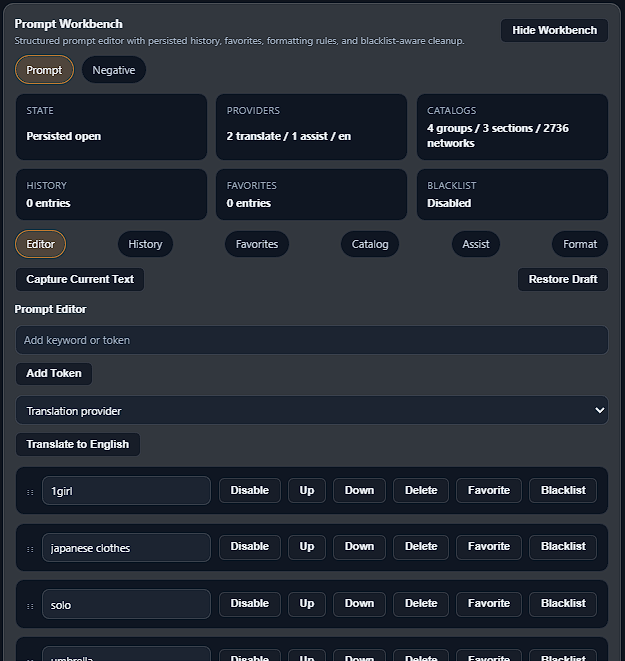
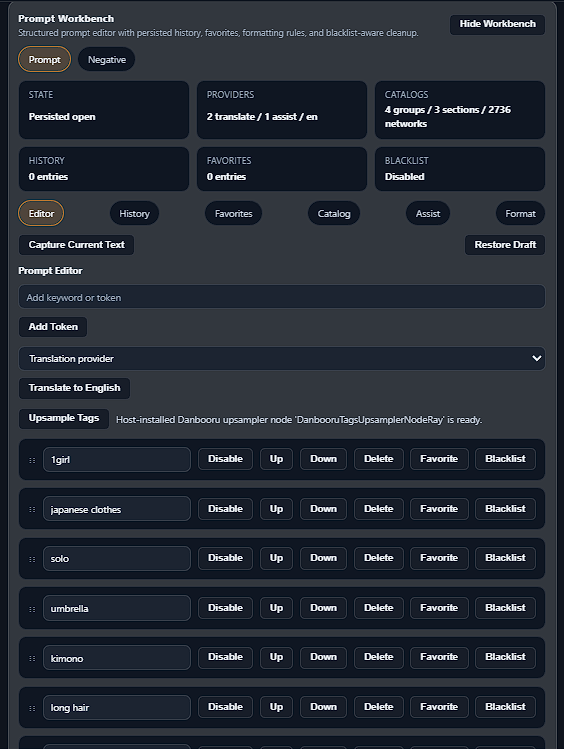
docs(readme): sync prompt workbench updates

diff --git a/README.md b/README.md
@@ -25,6 +25,17 @@ The core objective of this project is not merely to replicate the classic UI/UX,
 
 <details>
 
+<summary><strong>Prompt Workbench Danbooru host-action integration (new functionality/stability)</strong></summary>
+
+- Added a truthful `Upsample Tags` editor-toolbar action to `Prompt Workbench`, backed by a dedicated RookieUI `/rookieui/prompt-tools/upsample` route and host-node detection against the active ComfyUI registry.
+- The new action applies returned prompt text back into the active `Prompt Workbench` draft and bound prompt input without changing existing translation, AI-assist, history/favorites, or formatting behavior.
+- When the host-side Danbooru upsampler node is missing or unavailable, RookieUI now reports explicit disabled-state and route-level `host-unavailable` behavior instead of implying the action is always present.
+- Prompt Workbench live-host validation now covers the Danbooru host-action path, and restarted-host `full-pipeline` report/execute acceptance now includes the prompt-workbench lane.
+
+</details>
+
+<details>
+
 <summary><strong>Stateful-surface durability and live-host freshness hardening (stability/tooling)</strong></summary>
 
 - Hardened `Prompt Workbench` and `XYZ Plot` persisted state with atomic JSON writes and corrupt-state quarantine instead of silent reset-on-parse-failure behavior.
@@ -268,6 +279,7 @@ Current extension seams:
 - [Feature Overview](#feature-overview)
 - [Extensions](#extensions)
   - [Prompt Workbench](#prompt-workbench)
+    - [Prompt Workbench Danbooru Upsampler Action](#prompt-workbench-danbooru-upsampler-action)
   - [XYZ Plot](#xyz-plot)
   - [ControlNet Support](#controlnet-support)
   - [ADetailer Support](#adetailer-support)
@@ -335,6 +347,7 @@ If your host or Manager install path does not automatically install custom-node 
 - persisted `prompt` / `negative` namespace state, history, and favorites
 - quick-insert catalogs for group tags, prompt-library entries, embeddings, and LoRA references
 - translation, prompt analysis, AI assist delivery, and blacklist-aware formatting tools
+- truthful Danbooru host-action support for `Upsample Tags` when the host-side upsampler node is installed and available
 - provider truthfulness for shipped, deferred, reference-only, and misconfigured Prompt Workbench provider states
 
 ### XYZ Plot
@@ -406,7 +419,8 @@ Simple usage:
 2. Switch between the `Prompt` and `Negative` scopes depending on which field you want to edit, then use `Capture Current Text` if you want to pull the current field value into the workbench explicitly.
 3. Use the `Editor`, `History`, `Favorites`, `Catalog`, `Assist`, and `Format` panels as needed; token insertion, formatting cleanup, blacklist application, translation, and AI assist all operate on the active scope.
 4. Choose a configured shipped translation or AI-assist provider before running translation/assist actions, then apply the returned text back into the active RookieUI prompt field.
-5. Insert, rewrite, or clean prompt text; the active scope writes back to the current RookieUI prompt field and persists across refreshes.
+5. Use `Upsample Tags` when you want the active prompt expanded through the host-installed Danbooru upsampler node; the returned text writes back into the current Prompt Workbench draft and prompt field.
+6. Insert, rewrite, or clean prompt text; the active scope writes back to the current RookieUI prompt field and persists across refreshes.
 
 Behavior and compatibility:
 
@@ -415,7 +429,23 @@ Behavior and compatibility:
 - Catalog surfaces expose group tags, prompt-library entries, embeddings, and LoRA quick-insert helpers on the same workbench seam.
 - Translation and AI-assist delivery run through the built-in `/rookieui/prompt-tools/*` route family, with explicit truthfulness when a provider is shipped but unconfigured, deferred, reference-only, or otherwise unavailable on the current host/setup.
 - The current shipped translation execution paths are OpenAI-compatible chat translation and MyMemory public translation; AI assist currently uses the OpenAI-compatible provider contract.
-- The shipped live-host smoke lane validates config/state payloads, provider/catalog/analyze responses, history/favorites/blacklist persistence, translation behavior, and AI-assist truthfulness against the current host.
+- The shipped live-host smoke lane validates config/state payloads, provider/catalog/analyze responses, history/favorites/blacklist persistence, translation behavior, AI-assist truthfulness, and the Danbooru host-action path against the current host.
+
+#### Prompt Workbench Danbooru Upsampler Action
+
+Simple usage:
+
+1. Install the host-side `ComfyUI-Danbooru-Tags-Upsampler` node in the same ComfyUI environment as RookieUI, then restart ComfyUI so the node is visible in the active host registry.
+2. Open `txt2img` or `img2img`, click `Open Workbench`, and stay on the primary `Prompt` scope.
+3. Prepare the current prompt text, then click `Upsample Tags`.
+4. RookieUI sends the current prompt through the host Danbooru upsampler route and applies the returned text back into the active workbench draft and bound prompt field.
+
+Behavior and compatibility:
+
+- `Upsample Tags` is a host action, not a translation provider or AI-assist provider.
+- The action is currently limited to the primary `Prompt` scope; it is intentionally disabled on the `Negative` scope.
+- RookieUI only enables the action when the active ComfyUI host exposes a compatible Danbooru upsampler node alias.
+- If the host node is missing or unavailable, the toolbar remains truthful through disabled-state messaging and the backend route returns explicit `host-unavailable` status instead of pretending the feature exists.
 
 ---
 
@@ -546,12 +576,12 @@ Freshness note:
 Current live-host coverage:
 
 - `prompt-parity`: validates SD-family prompt dry-run and execute behavior on the shipped RookieUI-owned parity encode seam.
-- `prompt-workbench`: validates config/state truthfulness, provider/catalog/analyze payloads, persisted history/favorites/blacklist behavior, translation execution, and AI-assist delivery semantics.
+- `prompt-workbench`: validates config/state truthfulness, provider/catalog/analyze payloads, persisted history/favorites/blacklist behavior, translation execution, AI-assist delivery semantics, and the Danbooru `Upsample Tags` host-action path.
 - `xyz-plot`: validates axis/estimate contracts plus queue-backed session execution, terminal results, and assembled grid asset delivery.
 - `controlnet`: validates host-context compatibility, detect-route behavior, dry-run workflow topology, and execute-level queue/post-state closure.
 - `adetailer`: validates catalog/runtime truthfulness, dry-run refinement topology, fallback-safe execute behavior, and explicit queue/post-state closure.
 - `auxiliary-pipelines`: validates synchronous `Extras` execution, `PNG Info` parse / inspect / apply-back semantics, and queue/job lookup against a real RookieUI-origin job.
-- `full-pipeline`: aggregates the accepted `controlnet`, `adetailer`, `auxiliary-pipelines`, and `xyz-plot` lanes under one shared queue/post-state closure, including explicit reusable-output assertions.
+- `full-pipeline`: aggregates the accepted `controlnet`, `adetailer`, `auxiliary-pipelines`, `xyz-plot`, and `prompt-workbench` lanes under one shared queue/post-state closure, including explicit reusable-output assertions.
 
 ### Default Model Read Paths (Host ComfyUI)
 
